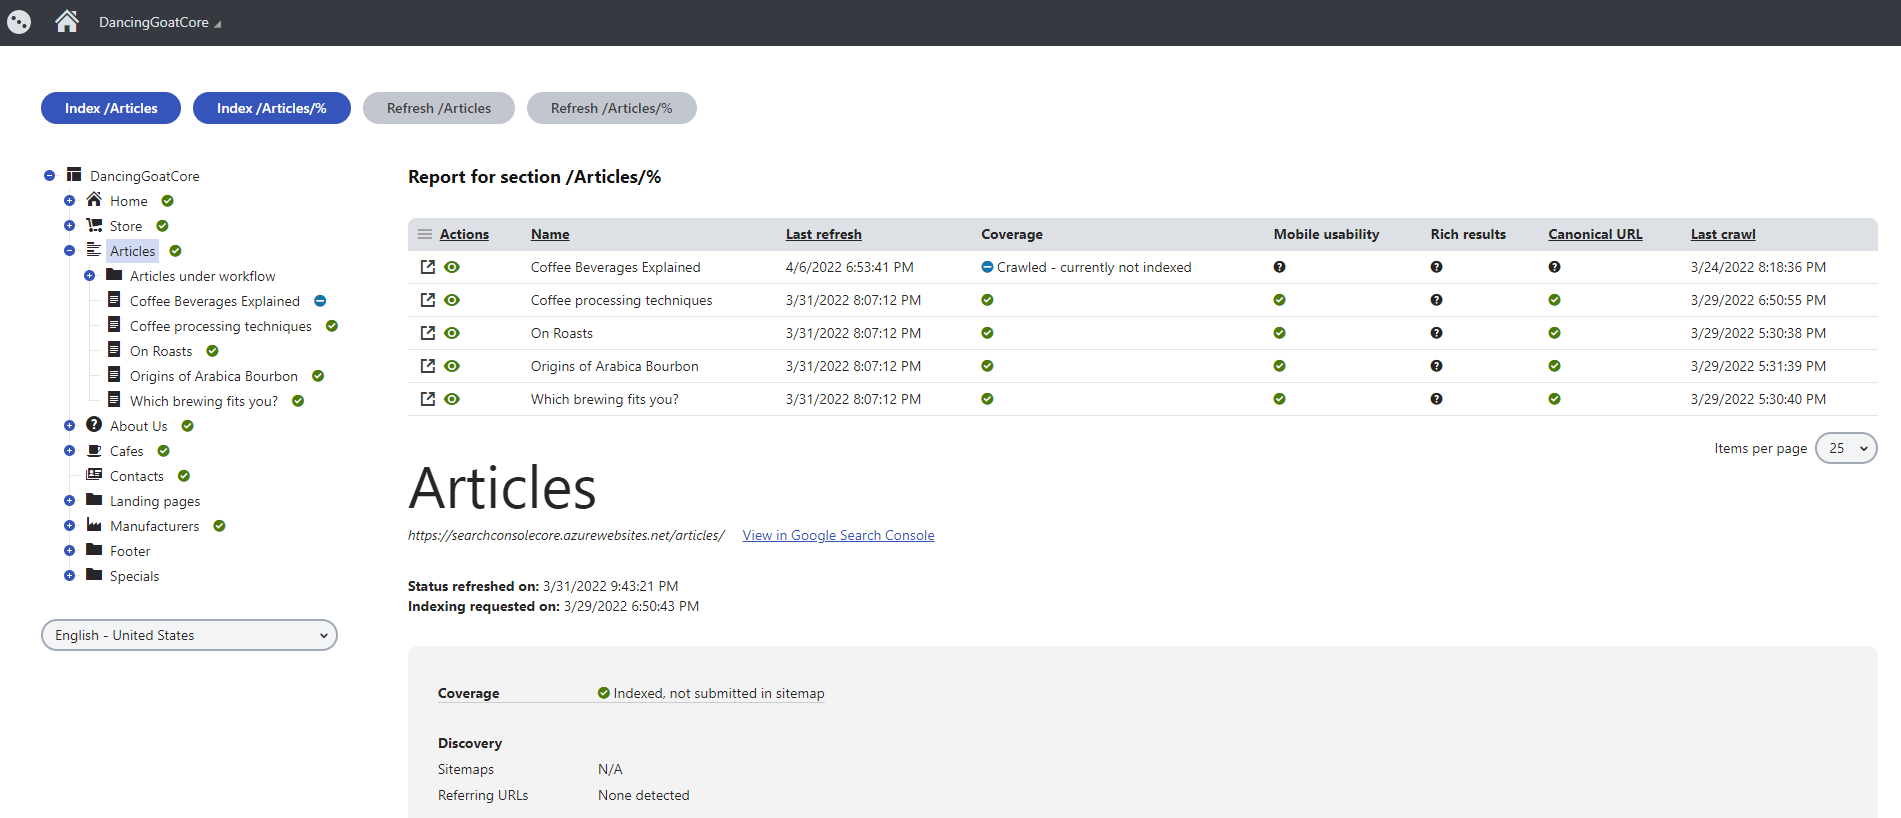
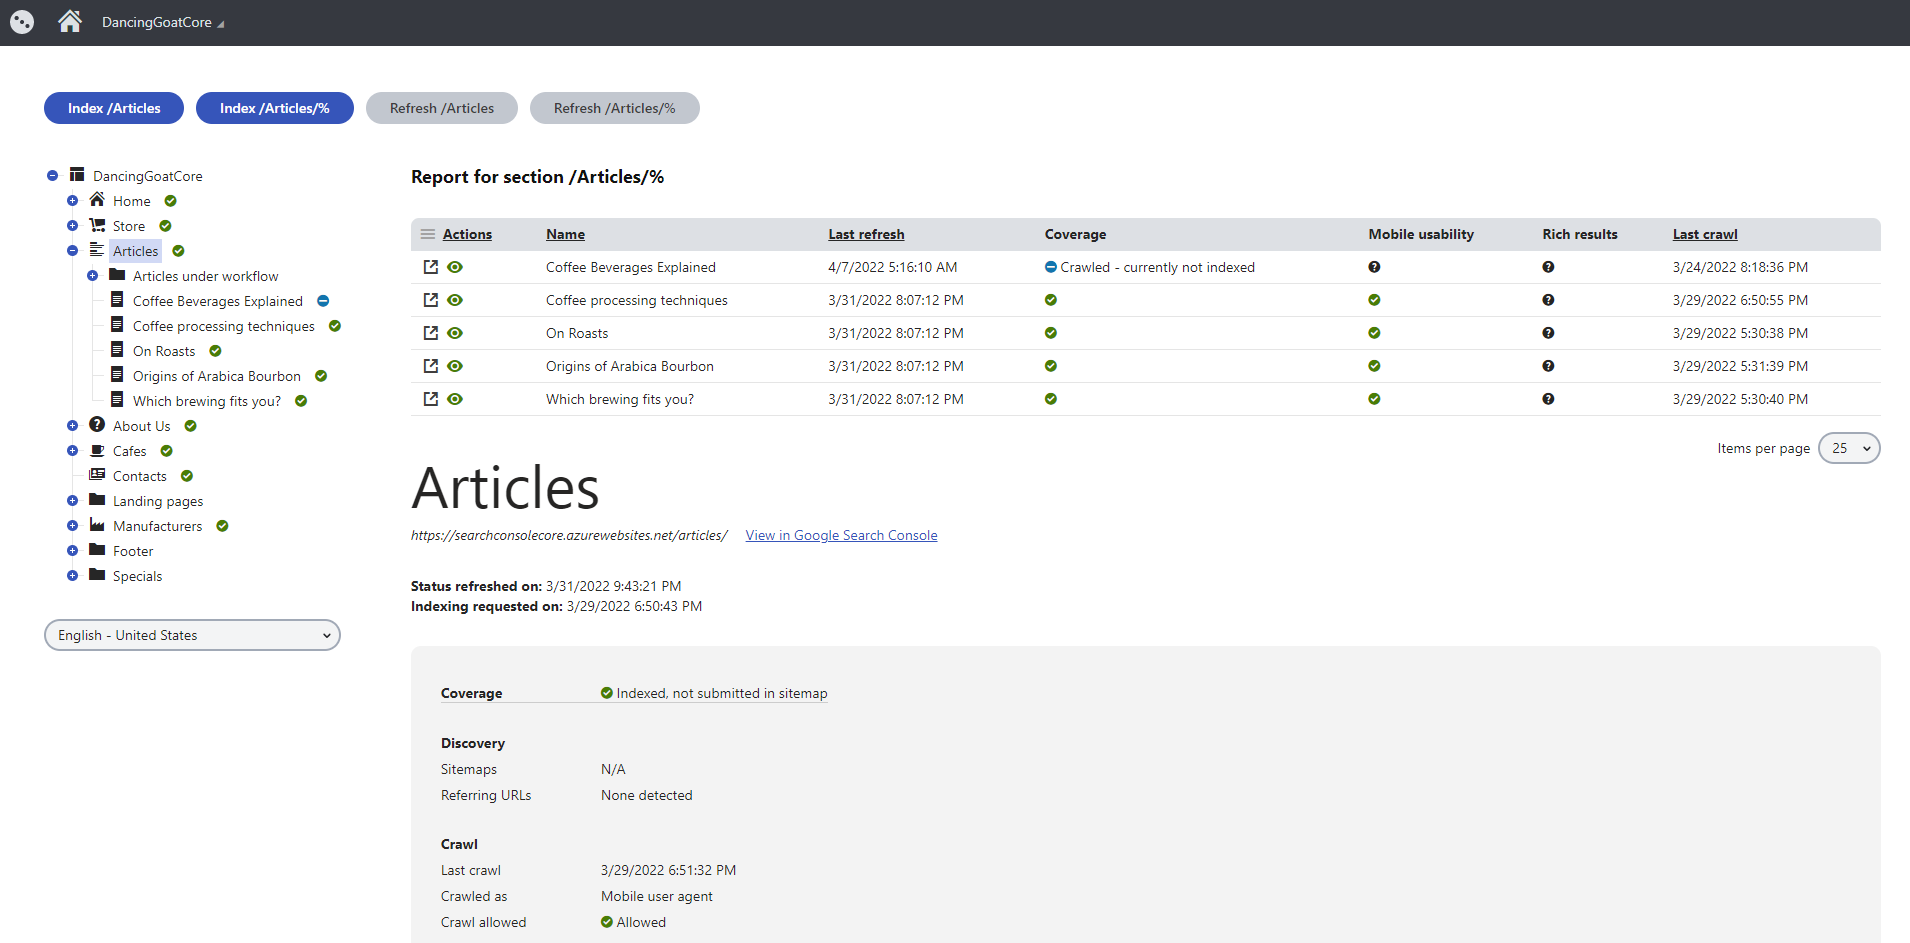
remove canonical from report

diff --git a/CMSModules/Kentico.Xperience.Google.SearchConsole/Controls/SearchConsoleReport.ascx.cs b/CMSModules/Kentico.Xperience.Google.SearchConsole/Controls/SearchConsoleReport.ascx.cs
@@ -149,12 +149,6 @@ namespace Kentico.Xperience.Google.SearchConsole.Controls
                     reportItem.LastCrawl = inspectUrlIndexResponse.InspectionResult.IndexStatusResult.LastCrawlTime.ToString();
                 }
 
-                reportItem.CanonicalUrls = new ReportCanonicalUrls
-                {
-                    UserUrl = inspectUrlIndexResponse.InspectionResult.IndexStatusResult.UserCanonical,
-                    GoogleUrl = inspectUrlIndexResponse.InspectionResult.IndexStatusResult.GoogleCanonical
-                };
-
                 reportItems.Add(reportItem);
             }
 
@@ -303,24 +297,6 @@ namespace Kentico.Xperience.Google.SearchConsole.Controls
                             .Append("<br/>");
                     }
                     return richIssueText.ToString();
-                case "canonical":
-                    var reportCanonicalUrls = parameter as ReportCanonicalUrls;
-                    if (reportCanonicalUrls == null ||
-                        reportCanonicalUrls.UserUrl == null ||
-                        reportCanonicalUrls.GoogleUrl == null)
-                    {
-                        return IconSet.Question("Unknown");
-                    }
-
-                    if (reportCanonicalUrls.UserUrl == reportCanonicalUrls.GoogleUrl)
-                    {
-                        return IconSet.Checked("Match");
-                    }
-                    else
-                    {
-                        var tooltip = $"User canonical: {reportCanonicalUrls.UserUrl}, Google canonical: {reportCanonicalUrls.GoogleUrl}";
-                        return IconSet.Error(tooltip);
-                    }
             }
             return parameter;
         }

diff --git a/CMSModules/Kentico.Xperience.Google.SearchConsole/Models/ReportItem.cs b/CMSModules/Kentico.Xperience.Google.SearchConsole/Models/ReportItem.cs
@@ -90,12 +90,5 @@ namespace Kentico.Xperience.Google.SearchConsole.Models
             get;
             set;
         }
-
-
-        public ReportCanonicalUrls CanonicalUrls
-        {
-            get;
-            set;
-        }
     }
 }

diff --git a/README.md b/README.md
@@ -51,9 +51,7 @@ The __content tree__ displays all pages of your site and their overall Google Se
 - __Red "x"__: The page is not indexed due to errors.
 - __Green "check"__: The page is indexed and has no errors.
 
-The __report__ section displays the details of the selected page's _direct_ children. The "Coverage," "Mobile usability," and "Rich results" columns will list any errors or warnings with the page, or a green checkmark if it is valid. The "Canonical URL" column displays a green checkmark if the user-provided URL matches Google's canonical URL for the page- otherwise, you can hover over the icon to view the URLs and correct the issue.
-
-Click the green "eye" icon to select that page from the content tree on the left and see its overview and report. The "arrow" icon will open the page's live site URL. You can export the details of these pages in multiple formats (e.g. Excel) by clicking the menu in the top-left of the grid. For example, if your articles have some mobile usability errors that need to be resolved by a front-end developer, you can export a full report of your article's issues as an Excel file and email it to your developers to be fixed!
+The __report__ section displays the details of the selected page's _direct_ children. The "Coverage," "Mobile usability," and "Rich results" columns will list any errors or warnings with the page, or a green checkmark if it is valid. Click the green "eye" icon to select that page from the content tree on the left and see its overview and report. The "arrow" icon will open the page's live site URL. You can export the details of these pages in multiple formats (e.g. Excel) by clicking the menu in the top-left of the grid. For example, if your articles have some mobile usability errors that need to be resolved by a front-end developer, you can export a full report of your article's issues as an Excel file and email it to your developers to be fixed!
 
 The __overview__ section displays all Google Search Console data retrieved for the selected page only. You can also see the last time the data for the page was [refreshed](#refreshing-page-statuses) and when [indexing](#request-page-indexing) was requested.
 
